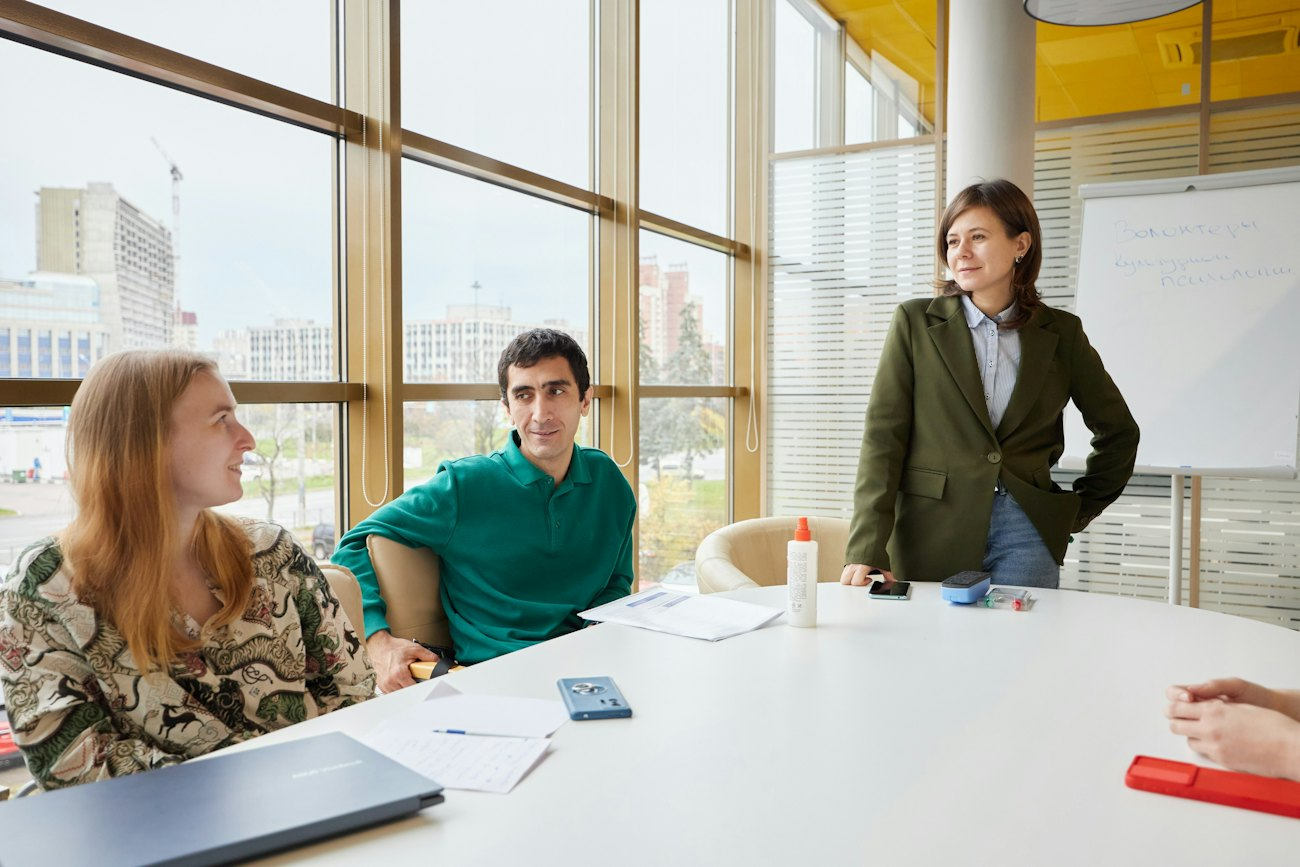
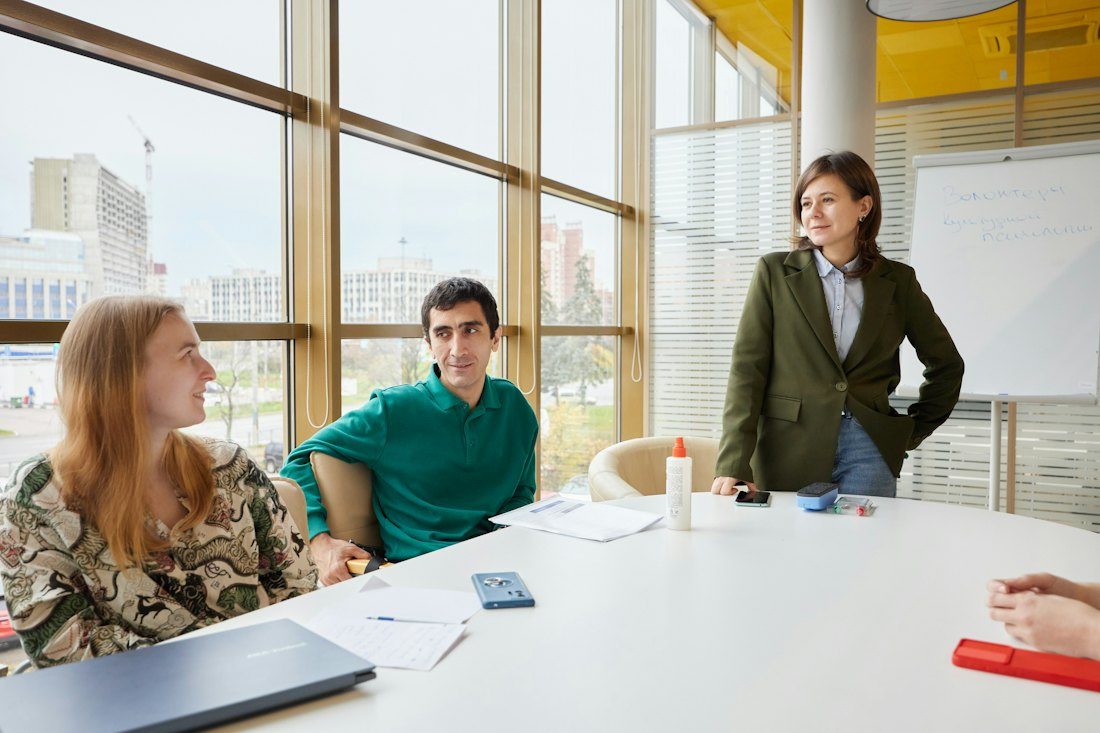
Shrink photo slots and replace two bands that cropped heads off
Rendering the band images at their actual crop showed the 5:2 letterbox was
cutting people out of frame: on Services every head was clipped, and on About
the woman at the top of the shot lost her head entirely. Home and Contact
survived it.

Bands are now 12:5 rather than 5:2, so they keep more of the frame's height,
and are capped at 720px instead of 900px. Side photos drop from ~30% of the
row to 25% (about 250px). Band section padding tightens to match.

Replaces the two photos that could not survive a wide crop with shots composed
for one - subjects spread horizontally, with headroom:
- About    colleagues talking in a relaxed lounge area (The Jopwell Collection)
- Services two people working across a large table (LinkedIn Sales Solutions)

Both verified Unsplash License, not Unsplash+. All four bands re-checked at
the exact rendered size (720x300) to confirm no one is clipped.

Also corrects a stale width/height on the homepage hero, left at 1200x800 from
the first pass while the file is 1000x667.

Re-exported everything at the smaller display sizes: photo payload 1240 KB ->
1024 KB, homepage 530 KB.

diff --git a/index.html b/index.html
@@ -59,7 +59,7 @@
         </div>
       </div>
       <figure class="hero-figure">
-        <img class="photo" src="assets/hero-team-meeting.jpg" width="1200" height="800"
+        <img class="photo" src="assets/hero-team-meeting.jpg" width="1000" height="667"
              fetchpriority="high" decoding="async"
              alt="Four colleagues in relaxed conversation around a table, one taking notes.">
       </figure>
@@ -73,7 +73,7 @@
           "Growth outpaces process. Managers are promoted faster than they're developed. The systems that worked at 15 employees quietly stop working at 80."
         </blockquote>
         <figure class="split-figure">
-          <img class="photo" src="assets/review-session.jpg" width="700" height="467"
+          <img class="photo" src="assets/review-session.jpg" width="600" height="401"
                loading="lazy" decoding="async"
                alt="Two colleagues reviewing notes together at a table by a window.">
         </figure>
@@ -108,7 +108,7 @@
   <section class="band-section">
     <div class="wrap">
       <figure class="band">
-        <img class="photo" src="assets/band-bright-office.jpg" width="1300" height="867"
+        <img class="photo" src="assets/band-bright-office.jpg" width="1100" height="733"
              loading="lazy" decoding="async"
              alt="A small team talking around a meeting table in a bright, window-lined office.">
         <figcaption class="band-note"><span class="note">♪</span> Diagnose &middot; Recommend &middot; Implement</figcaption>
@@ -161,7 +161,7 @@
           <li>Leadership transition, restructuring, or M&amp;A underway</li>
         </ul>
         <figure class="split-figure">
-          <img class="photo" src="assets/lunchroom-coffee-chat.jpg" width="700" height="467"
+          <img class="photo" src="assets/lunchroom-coffee-chat.jpg" width="600" height="400"
                loading="lazy" decoding="async"
                alt="Three colleagues laughing over coffee in an office kitchen.">
         </figure>

diff --git a/services.html b/services.html
@@ -85,9 +85,9 @@
   <section class="band-section">
     <div class="wrap">
       <figure class="band">
-        <img class="photo" src="assets/services-working-session.jpg" width="1300" height="867"
+        <img class="photo" src="assets/services-working-session.jpg" width="1100" height="734"
              loading="lazy" decoding="async"
-             alt="Colleagues gathered around a laptop in an easy, informal working session.">
+             alt="Two colleagues working across a large table spread with materials, beside tall windows.">
         <figcaption class="band-note"><span class="note">♪</span> Strategy through to hands-on execution</figcaption>
       </figure>
     </div>
@@ -129,7 +129,7 @@
       <div class="split split--media-first">
         <p class="doc-dek" style="grid-column:auto; max-width:52ch;">The work is delivered by a bench of vetted senior HR consultants and specialists with expertise in performance management, talent acquisition, leadership development, compensation, along with sector-specific expertise, brought in exactly when an engagement calls for it. You're never relying on a single generalist.</p>
         <figure class="split-figure">
-          <img class="photo" src="assets/coaching-conversation.jpg" width="700" height="468"
+          <img class="photo" src="assets/coaching-conversation.jpg" width="600" height="401"
                loading="lazy" decoding="async"
                alt="Two people in a one-to-one advisory conversation beside a window.">
         </figure>

diff --git a/styles.css b/styles.css
@@ -308,16 +308,17 @@ footer{padding-block:36px;}
 .split-figure{margin:0;}
 .split-figure .photo{aspect-ratio:3/2;}
 @media (min-width:860px){
-  .split{grid-template-columns:2.2fr 1fr; gap:44px;}
-  .split--media-first{grid-template-columns:1fr 2.2fr;}
+  .split{grid-template-columns:3fr 1fr; gap:40px;}
+  .split--media-first{grid-template-columns:1fr 3fr;}
   .split--media-first .split-figure{order:-1;}
 }
 
-/* One contained band per page, inset from the margins - never edge to edge */
-.band-section{padding-block:40px; border-bottom:1px solid var(--rule);}
-@media (min-width:860px){ .band-section{padding-block:56px;} }
-.band{margin:0; max-width:900px; margin-inline:auto;}
-.band .photo{aspect-ratio:5/2;}
+/* One contained band per page, inset from the margins - never edge to edge.
+   12:5 rather than a deeper letterbox, so heads stay inside the frame. */
+.band-section{padding-block:36px; border-bottom:1px solid var(--rule);}
+@media (min-width:860px){ .band-section{padding-block:48px;} }
+.band{margin:0; max-width:720px; margin-inline:auto;}
+.band .photo{aspect-ratio:12/5;}
 .band-note{
   padding-top:12px;
   font-family:var(--body); font-size:12px; letter-spacing:.09em;

diff --git a/about.html b/about.html
@@ -77,7 +77,7 @@
           "Optimizing the people foundation that allows your business to perform at its best."
         </blockquote>
         <figure class="split-figure">
-          <img class="photo" src="assets/about-open-office.jpg" width="700" height="470"
+          <img class="photo" src="assets/about-open-office.jpg" width="600" height="403"
                loading="lazy" decoding="async"
                alt="Two colleagues laughing together in a bright, open-plan office.">
         </figure>
@@ -108,9 +108,9 @@
   <section class="band-section">
     <div class="wrap">
       <figure class="band">
-        <img class="photo" src="assets/about-band.jpg" width="1300" height="867"
+        <img class="photo" src="assets/about-band.jpg" width="1100" height="733"
              loading="lazy" decoding="async"
-             alt="Four colleagues talking around a table in a relaxed workspace.">
+             alt="Colleagues talking together in a relaxed lounge area by tall windows.">
         <figcaption class="band-note"><span class="note">♪</span> Embedded, not transactional</figcaption>
       </figure>
     </div>

diff --git a/contact.html b/contact.html
@@ -85,7 +85,7 @@
       </div>
 
       <figure class="band" style="margin-top:48px;">
-        <img class="photo" src="assets/contact-conversation.jpg" width="1300" height="867"
+        <img class="photo" src="assets/contact-conversation.jpg" width="1100" height="733"
              loading="lazy" decoding="async"
              alt="Two people in conversation across a table beside a bright window.">
         <figcaption class="band-note"><span class="note">♪</span> Every engagement starts with a conversation</figcaption>

diff --git a/assets/IMAGE-CREDITS.md b/assets/IMAGE-CREDITS.md
@@ -6,42 +6,44 @@ individually checked to confirm it is **not** an Unsplash+ (paid-tier) photo.
 
 | File | Used for | Photographer | Source |
 |---|---|---|---|
-| `hero-team-meeting.jpg` | Homepage hero, beside the headline (displays ~480px) | LinkedIn Sales Solutions | [IjkIOe-2fF4](https://unsplash.com/photos/four-women-chatting-at-cafe-table-IjkIOe-2fF4) |
-| `review-session.jpg` | Homepage pull-quote, small accent left (displays ~310px) | Christina @ wocintechchat.com M | [4PU-OC8sW98](https://unsplash.com/photos/two-women-taking-to-each-other-while-holding-pens-4PU-OC8sW98) |
-| `band-bright-office.jpg` | Homepage contained band (displays ~900px) | Elena Golubeva | [uFL-uZ_qDJw](https://unsplash.com/photos/a-diverse-group-of-people-in-a-modern-meeting-room-uFL-uZ_qDJw) |
+| `about-band.jpg` | About band - colleagues talking in a relaxed lounge area (REPLACED) | The Jopwell Collection | [rO7eGpwfHbE](https://unsplash.com/photos/a-group-of-people-sitting-around-a-living-room-rO7eGpwfHbE) |
+| `services-working-session.jpg` | Services band - two people working across a big table (REPLACED) | LinkedIn Sales Solutions | [AhirGl0nhww](https://unsplash.com/photos/man-and-woman-sitting-at-table-AhirGl0nhww) |
+| `band-bright-office.jpg` | Homepage band - meeting by floor-to-ceiling windows | Elena Golubeva | [uFL-uZ_qDJw](https://unsplash.com/photos/a-diverse-group-of-people-in-a-modern-meeting-room-uFL-uZ_qDJw) |
+| `contact-conversation.jpg` | Contact band - two people mid-conversation | The Jopwell Collection | [GB4ScXwxNGI](https://unsplash.com/photos/a-woman-sitting-at-a-table-talking-to-another-woman-GB4ScXwxNGI) |
+| `hero-team-meeting.jpg` | Homepage hero (unchanged size) | LinkedIn Sales Solutions | [IjkIOe-2fF4](https://unsplash.com/photos/four-women-chatting-at-cafe-table-IjkIOe-2fF4) |
+| `review-session.jpg` | Homepage pull-quote, small accent left | Christina @ wocintechchat.com M | [4PU-OC8sW98](https://unsplash.com/photos/two-women-taking-to-each-other-while-holding-pens-4PU-OC8sW98) |
 | `lunchroom-coffee-chat.jpg` | Homepage 'Who We Work With', small accent right | Maurice Sardison | [TTvedfJt08U](https://unsplash.com/photos/three-people-drinking-tea-in-kitchen-TTvedfJt08U) |
 | `about-open-office.jpg` | About 'Why Orchestral', small accent right | AllGo - An App For Plus Size People | [--tCTIja3_4](https://unsplash.com/photos/two-smiling-woman-inside-room---tCTIja3_4) |
-| `about-band.jpg` | About contained band | Derek Coleman | [jIKxRCInAFA](https://unsplash.com/photos/a-group-of-people-sitting-around-a-table-jIKxRCInAFA) |
-| `services-working-session.jpg` | Services contained band | Creatopy | [sgIgF8xKY8o](https://unsplash.com/photos/a-group-of-people-sitting-around-a-laptop-computer-sgIgF8xKY8o) |
 | `coaching-conversation.jpg` | Services 'How Support Is Delivered', small accent left | Centre for Ageing Better | [K8uzzu6wBKc](https://unsplash.com/photos/woman-talking-to-person-across-table-K8uzzu6wBKc) |
-| `contact-conversation.jpg` | Contact contained band | The Jopwell Collection | [GB4ScXwxNGI](https://unsplash.com/photos/a-woman-sitting-at-a-table-talking-to-another-woman-GB4ScXwxNGI) |
 | `cta-backdrop.jpg` | CTA band background, darkened (all pages) | Ninthgrid | [wCfWNod54JU](https://unsplash.com/photos/a-group-of-people-standing-around-a-table-wCfWNod54JU) |
 
 ## How the layout works
 
-Three photo sizes, all set in `styles.css`:
-
 | Class | Where | Size on screen |
 |---|---|---|
 | `.hero-figure` | Homepage headline | ~480px wide, 3:2 |
-| `.split-figure` | Beside a block of copy | ~30% of the row, 3:2 |
-| `.band` | One per page, centred | max 900px wide, 5:2 |
+| `.split-figure` | Beside a block of copy | 25% of the row (~250px), 3:2 |
+| `.band` | One per page, centred | max 720px wide, 12:5 |
 
-Side photos alternate: add `split--media-first` to the `.split` div to move the photo to the
-left, or leave it off for the right. Bands are capped at 900px and never run edge-to-edge.
+Side photos alternate: add `split--media-first` to the `.split` div to put the photo on the
+left, or leave it off for the right.
+
+**Band photos need a wide composition.** A band crops to 12:5, so it keeps roughly the middle
+60% of a normal photo's height. Pick shots where people have headroom and are spread across
+the frame, or heads get cut off. Check a candidate before committing to it by viewing it at
+720x300.
 
 ## Swapping in your own photos
 
 Every slot uses `aspect-ratio` + `object-fit:cover`, so a replacement can be any size or shape
-and will crop to fit. Drop the new file into `assets/` with the same filename; nothing else
-needs to change.
+and will crop to fit. Drop the new file into `assets/` with the same filename.
 
-If a crop cuts off the wrong part of the frame, add `object-position` to that one `<img>`:
+If a crop cuts off the wrong part, add `object-position` to that one `<img>` — lower percentages
+show more of the top of the frame:
 
 ```html
-<img class="photo" src="assets/hero-team-meeting.jpg" style="object-position: center 30%" ...>
+<img class="photo" src="assets/about-band.jpg" style="object-position: center 35%" ...>
 ```
 
-Suggested exports: ~1300px wide for bands, ~1000px for the hero, ~700px for the small side
-photos, JPEG quality 70-76. The CTA background is set in `styles.css` (`.cta-band::before`),
-not in the HTML.
+Suggested exports: ~1100px wide for bands, ~1000px for the hero, ~600px for the small side
+photos, JPEG quality 72-78. The CTA background is set in `styles.css` (`.cta-band::before`).
